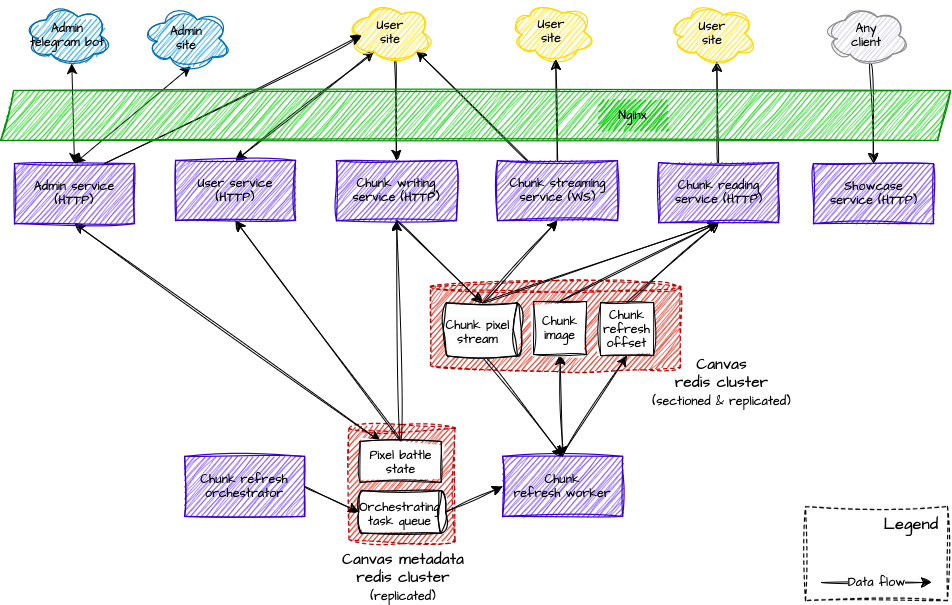
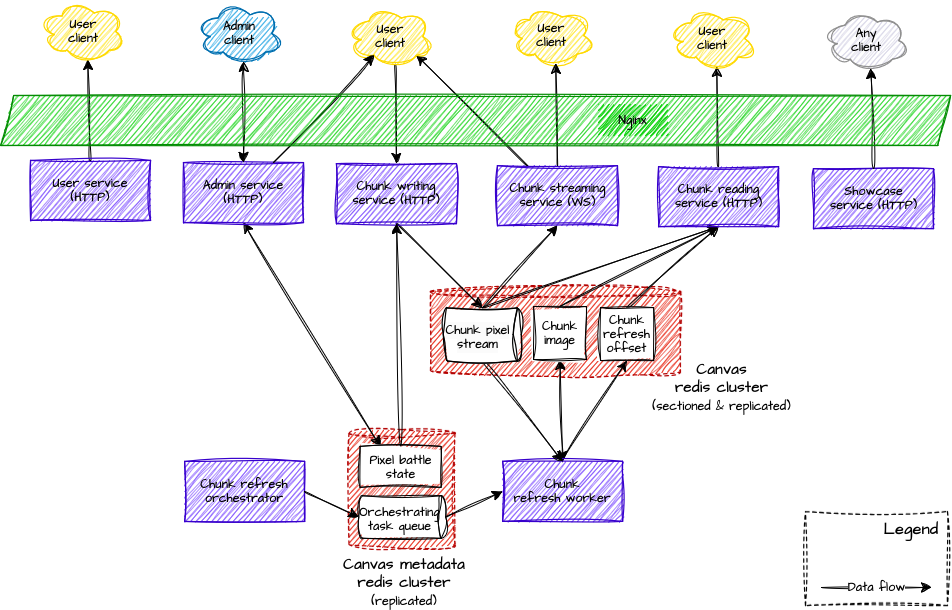
doc: add description

diff --git a/README.md b/README.md
@@ -1,7 +1,103 @@
 # Pixel-Battle backend
 [![CI](https://github.com/emptybutton/Pixel-battle-backend/actions/workflows/ci.yml/badge.svg)](https://github.com/emptybutton/Pixel-battle-backend/actions?query=workflow%3ACI)
 [![CD](https://github.com/emptybutton/Pixel-battle-backend/actions/workflows/cd.yaml/badge.svg)](https://github.com/emptybutton/Pixel-battle-backend/actions/workflows/cd.yaml)
+[![GitHub Release](https://img.shields.io/github/v/release/emptybutton/Pixel-battle-backend?style=flat&logo=github&labelColor=%23282e33&color=%237c73ff)](https://github.com/emptybutton/Pixel-battle-backend/releases)
+[![Lines](https://img.shields.io/endpoint?url=https%3A%2F%2Fghloc.vercel.app%2Fapi%2Femptybutton%2FPixel-battle-backend%2Fbadge%3Ffilter%3D.py&logo=python&label=lines&color=blue)](https://github.com/search?q=repo%3Aemptybutton%2FPixel-battle-backend+language%3APython+&type=code)
 [![codecov](https://codecov.io/gh/emptybutton/Pixel-battle-backend/graph/badge.svg?token=VJ5A2WS1Q7)](https://codecov.io/gh/emptybutton/Pixel-battle-backend)
 
-Simple backend for pixel battle.
+Бэкенд-приложение, разрабатываемое с расчётом на нагрузки выше, чем у VK Pixel-Battle и Reddit r/place.
 
+## Предметная область
+- В игре есть холст размером 1000х1000 пикселей
+- Пользователи могут перекрашивать любой пиксель на холсте раз в минуту
+- Новые пользователи могут начать редактировать холст только через минуту после присоединения к игре (это сделано для предотвращения обхода ограничения на редактирование раз в минуту)
+- Пользователи не могут редактировать холст, когда пиксель-батл не активен
+- Конфигурированием времени проведения пиксель-батла занимаются админы
+- Админ может запланировать или изменить время проведения пиксель-батла, если у него есть админский ключ, соответствующий админскому ключу самого пиксель-батла
+- Холст разбит на 100 чанков — областей размером 100х100 пикселей
+- Каждый чанк характеризуется своим номером — ужатой минимальной позиции в своей области. Как пример, минимальная позиция чанка `1, 0` — это `100, 0`, чанка `5, 6` — это `500, 600`
+
+## Сценарии
+**Редактирования холста**:
+1. пользователь регестрируется в системе
+2. ожидает одну минуту
+3. перекрашивает пиксель
+4. `повторяет шаги 2 и 3 до окончания пребывания в игре`
+
+**Просмотр холста**:
+1. пользователь собирается просматривать области холста, расположенные в рамках определённых чанков
+2. клиент пользователя начинает отслеживать изменения этих чанков
+3. через некоторое время просматривает их устаревшие представления вместе с актуализирующими изменениями
+4. применяет актуализирущие изменения
+5. применяет накопленные отслеженные изменения
+6. отображает представления
+7. по мере поступления новых изменений применяет их
+8. `повторяется шаг 7`
+9. пользователь прекращает просмотр областей холста, расположенных в рамках определённых чанков
+10. чанки больше не отображаются и не отслеживаются
+
+**Планирование пиксель батла**:
+1. админ получает админский ключ вне системы.
+2. планирует проведение пиксель-батла в рамках определённого временного промежутка
+
+## Реализация
+![System design](https://raw.githubusercontent.com/emptybutton/Pixel-battle-backend/refs/heads/main/assets/system-design/image.png)
+
+> [!IMPORTANT]
+> Все сервисы — это один сервис, разворачиваемый как несколько сервисов для точечного масштабирования.
+
+В системе два Redis-кластера:
+1. Кластер холста
+2. Кластер метаданных холста
+
+### Кластер холста
+Хранит данные состояния чанков.
+
+Каждый шард хранит данные только одного чанка (максимум 100 шардов). Если бы шард хранил данные разных чанков, сбой мог бы привести к неконсистентному состоянию чанков, данные которого хранит шард.
+
+Данные шарда:
+- два варианта изображения чанка
+- поток изменений чанка. Каждое событие — это данные отдельного пикселя, закодированные в 5 байт, где первые два — позиция, остальные три — RGB цвет (позиция хранится относительно минимальной позиции чанка, поэтому максимальное значения позиции это не `999, 999`, а `99, 99`)
+- смещение потока изменений чанка, определяющее какие события были применены к хранимому изображению, а какие нет. Используются именно ручное хранение смещений, вместо consumer groups, из-за того, что в системе необходимо читать события, которые не нужно после этого комитить. При этом чтение может быть конкуретным
+- разные распределённые локи, в рамках которых изменяются вышеперечисленные данные
+
+Изображение чанка представляется в таких вариантах:
+1. `png` картинка, не требующая каких-либо дополнительных преобразований для операций чтения
+2. сырые пиксельные данные, не закодированные в какой-либо формат, использующиеся библеотекой `Pillow` в качестве данных при редактировании изображений
+
+Вобщем, если не брать в расчёт время ввода-вывода, то с этим разделением операции чтения выполняются в \~1000 раз быстрее, а операции рефреша на 10%\~30% быстрее.
+
+
+### Кластер метаданных холста
+Хранит данные, не относящиеся к конкретным чанкам:
+- Состояние пиксель-батла (временной интервал)
+-Оркестрирующая очередь задач (номера чанков для рефреша)
+- Распределённые локи оркестратора рефреша
+
+Этот кластер имеет очень маленький обьем данных и низкую постоянную нагрузку, поэтому он не шардирован, но реплицирован, но не столько, что бы не потерять данные, столько что бы имелись замены в случае падения мастера.
+
+### Поток данных при изменении пикселя
+1. запись нового состояния пикселя происходит в `chunk_writing_service`, где он добавляется в очередь изменений чанка, к которому относится
+2. посредством вебсокетов, `chunk_streaming_service` посылает новое состояние пикселя всем слушающим клиетам того чанка, к которому относится пиксель
+3. копиться микробатч в очереди, перед его записью в представления
+4. до тех пор, пока пиксель в микробатче, операции `chunk_reading_service`-а читают его (и все остальные незафиксированные состояния пикселей) из очереди как актуализирующую дельту основного изображения
+5. `chunk_refresh_worker` приступает к рефрешу и применяет микробатч к изображениям и фиксируют его смещением
+
+### Оркестрация рефреша чанков
+- `chunk_refresh_worker` пулит очередь задач из кластера метаданных холста и рефрешит тот чанк, команду которого он вытащил.
+- `chunk_refresh_orchestrator` пушит очередь задач, таким образом, что команды хранятся зациклированно.
+
+Зациклированно значит, что если существуют комманды `А`, `Б`, `С`, то после пулинга `A`, будет спулет `Б`, потом спулет `C`, а после него опять спулет `A` и по кругу.
+
+> [!CAUTION]
+> В случае одновременной работы нескольких оркестраторов присутвует риск того, что команд в очереди будет больше 100 и что рефреш будет происходить немного чаще, тем самым уменьшая микробатчи некоторых чанков и увеличивая избыточное потребление ресурсов.
+> 
+> Несмотря на это, можно убрать риск уменьшения времени хранения микробатчей, храня расписания оркестрации (пуша), но пока это не реализовано.
+
+При сбое всех воркеров рефреш можно запустить вручную через `admin_cli`.
+
+### Данные пользователей
+Всего на одного пользователя необходимо сохранять только время, когда он обретёт право на перекрашивание пикселей, поэтому эти данные не хранятся на сервере, а их хранит сам клиент пользователя в качестве JWT, через http-only куку.
+
+### В действительности
+Это приложение уже развёрнуто, но из-за того, что оно не испытывает нагрузку, под которую проектировалось, оно работает не в виде 8+ сервисов и 2 кластеров на множество нод, а в виде одной ноды с 1 ядром и 1 GB RAM. Оно развёрнуто как единый сервис в рамках одного процесса с тремя процессами Redis-сервера, образующими один кластер (минимально необходимое количество для создания кластера), который заменяет оба запланированных кластера.
